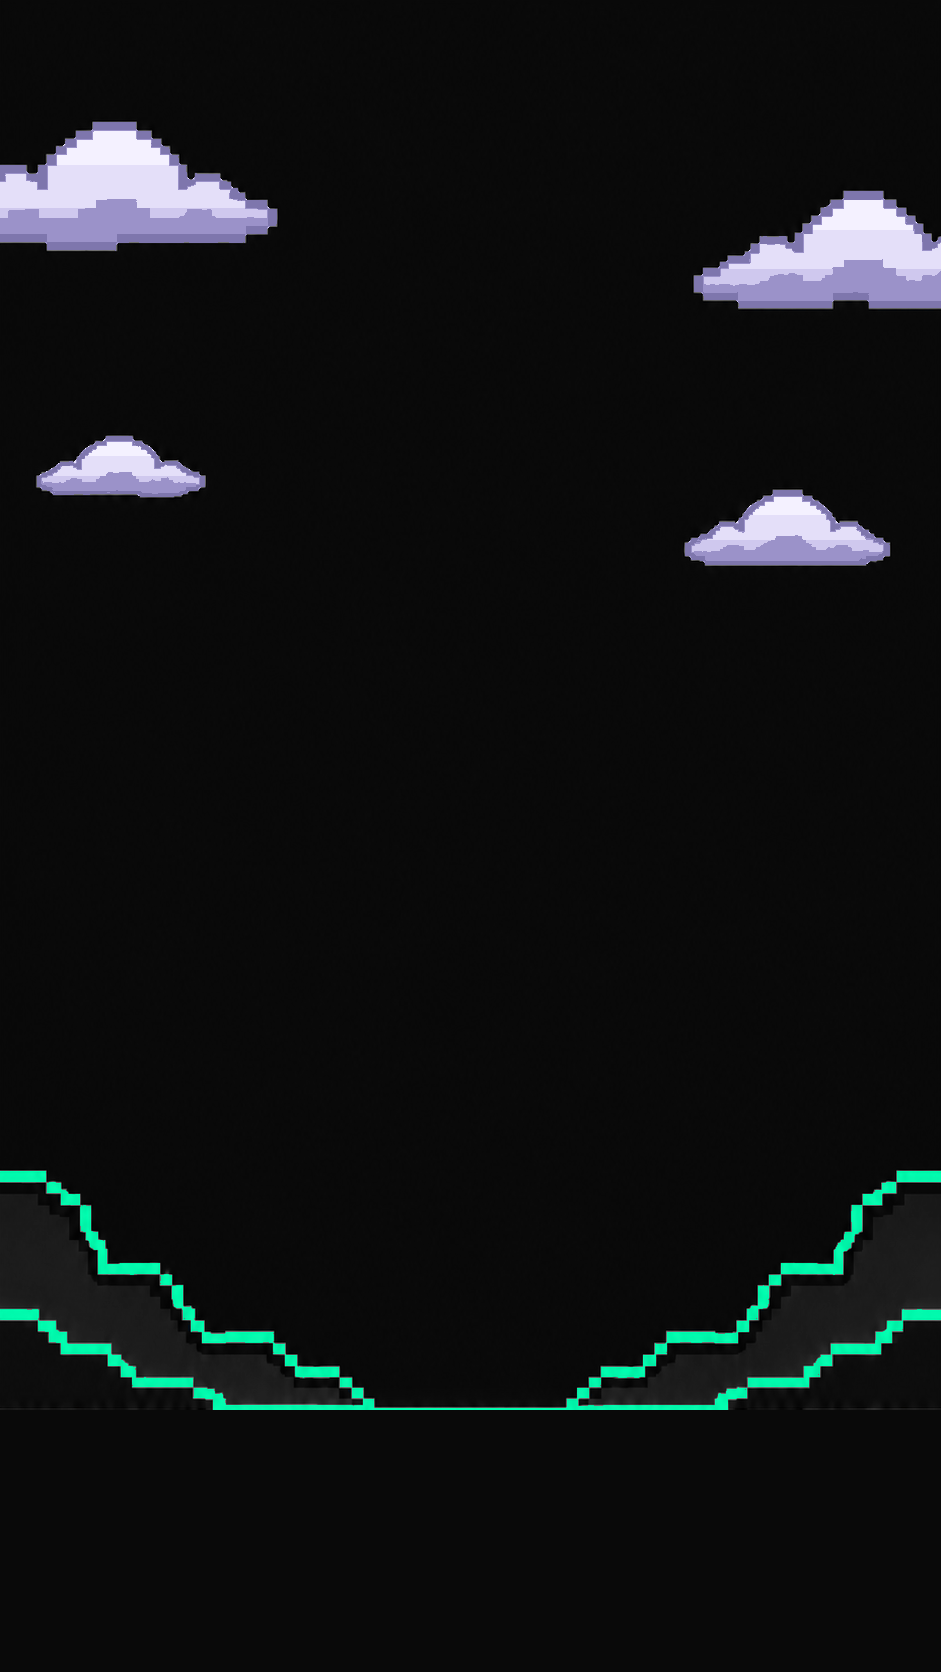
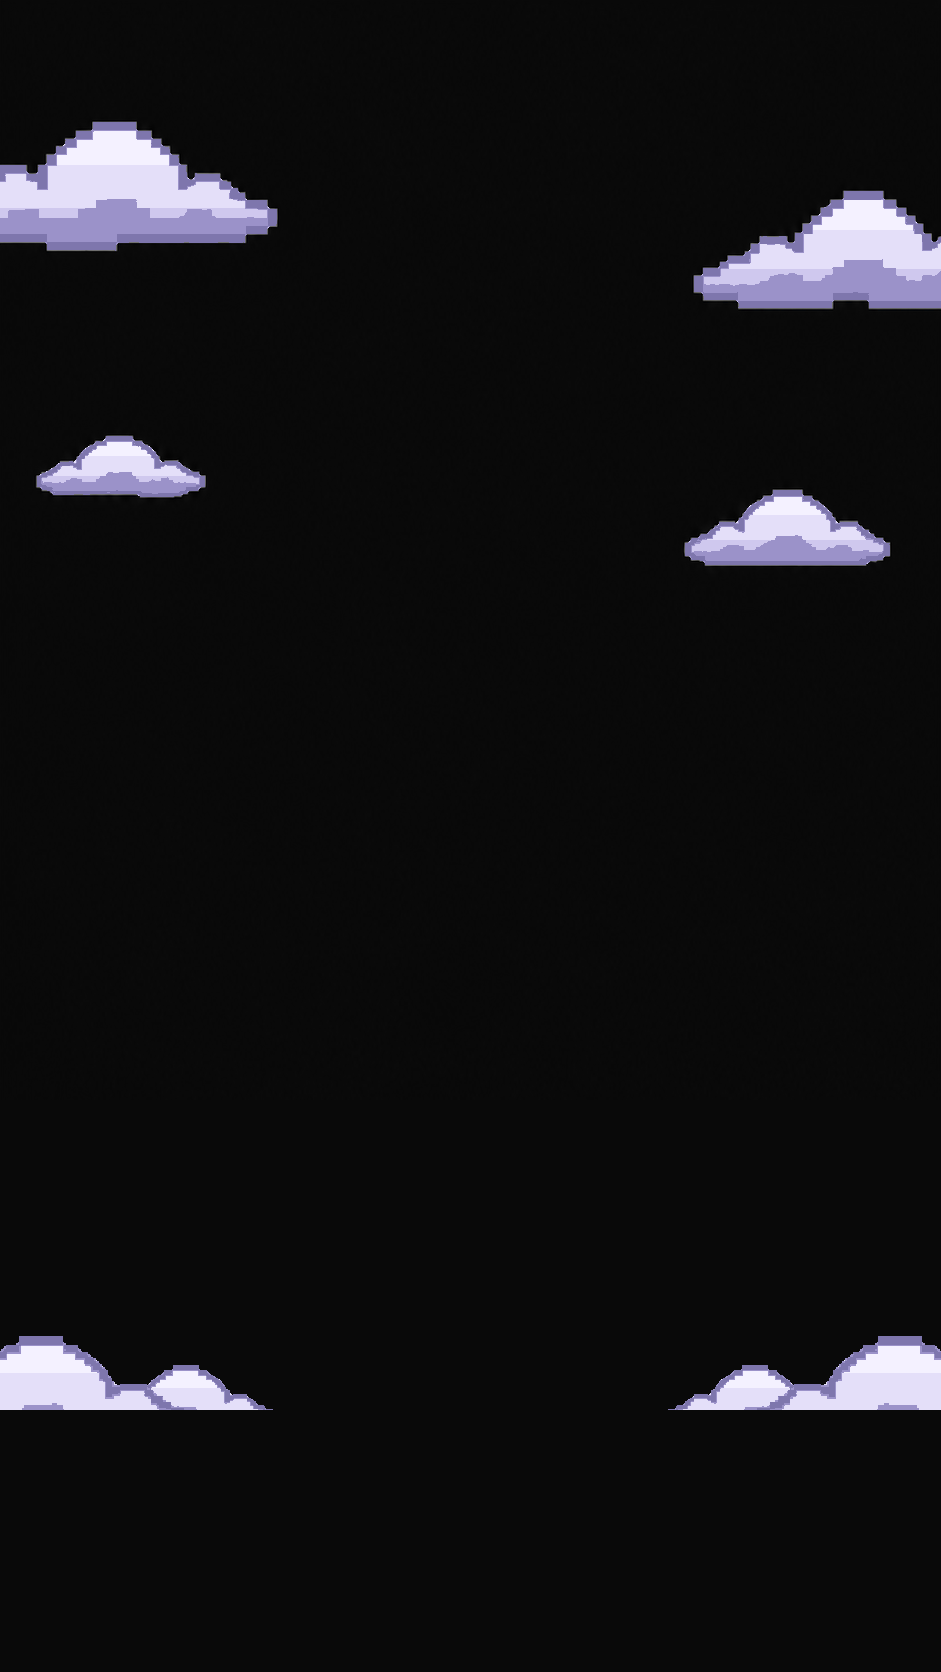
ui: hero - cloud band on the horizon instead of the hills, floor as a real CSS 3D grid plane (096)
Scene: scripts/build_hero_scene.py removes the green-outlined grey hills and lays
a band of the recoloured 095 clouds (the larger whole sprite, scaled without
smoothing, mirrored) along the horizon: bigger at the sides, smaller towards
the middle, lower parts hidden under the horizon; the middle stays clear.

Floor: one grid plane tilted back in a CSS 3D perspective whose vanishing line
sits on the horizon (pivot = perspective / tan(tilt) below it); all sizes scale
with the visible floor height. It slides one whole-pixel cell per 2.4 s cycle
(transform only), so t=0 and t=cycle are identical (pixel diff 0). Fade hides
the far rows; side fade against the far moire; 3px horizon line with a glow.
Static with prefers-reduced-motion.

diff --git a/app/hero-header.css b/app/hero-header.css
@@ -1,7 +1,7 @@
 /* GUI redesign: header + hero (reference: newheader.png / newheadermobile.png).
    Loaded after globals.css (app/layout.tsx) and reuses its component classes. Scene backgrounds:
-   public/hero/dark*.png (sky, clouds, hills; built by scripts/build_hero_scene.py) + the CSS floor
-   below the horizon (app/hero-floor.tsx, task 095). Header switches to the burger at ≤1279px
+   public/hero/dark*.png (sky, clouds, the cloud band on the horizon; scripts/build_hero_scene.py)
+   + the CSS floor below the horizon (app/hero-floor.tsx, tasks 095/096). Header switches to the burger at ≤1279px
    (same breakpoint as app/mobile-menu.tsx), the hero to the portrait scene at ≤768px. */
 :root {
   --scene-color: #0a0a0a;
@@ -280,13 +280,9 @@ body { background: var(--page); }
     var(--hero-h) - 72px - var(--horizon) * var(--scene-h));
   /* Visible grid below the horizon; the scroll cue sits on this line. */
   --grid-zone: calc(var(--hero-h) - var(--scene-y) - var(--horizon) * var(--scene-h));
-  /* Floor (task 095, app/hero-floor.tsx): the artwork's floor height (= eye height under the horizon) is the
-     unit of the CSS grid; the horizon in hero coordinates; one grid tile; one ride cycle. */
-  --fh: calc((1 - var(--horizon)) * var(--scene-h));
+  /* Floor (app/hero-floor.tsx): the horizon in hero coordinates and one ride cycle. */
   --horizon-y: calc(var(--scene-y) + var(--horizon) * var(--scene-h));
-  /* Whole pixels: line k sits at k tiles, so after one cycle it lands exactly where line k−1 started. */
-  --floor-tile: round(calc(var(--fh) * .625), 1px);
-  --floor-cycle: 2.5s;
+  --floor-cycle: 2.4s;
   min-height: calc(100vh - var(--header-height));
   min-height: var(--hero-h);
   background-color: var(--scene-color);
@@ -456,11 +452,29 @@ body { background: var(--page); }
 }
 @keyframes scroll-cue { 50% { transform: translateY(5px); } }
 
-/* ---------- Hero floor (task 095, app/hero-floor.tsx) ----------
-   Below the horizon of the scene PNG: rays to the vanishing point (static SVG) and cross lines on a plane laid
-   flat in a CSS perspective (eye on the horizon, --fh above the plane at the artwork's bottom edge). The plane
-   moves towards the viewer by exactly one tile per cycle (transform only, linear), so the loop has no seam.
-   Fog: the strip just under the horizon is masked out; the farthest line is born there. */
+/* ---------- Hero floor (tasks 095, 096; app/hero-floor.tsx) ----------
+   One plane tilted back in a real CSS 3D perspective: the grid lines lie ON it, so the perspective alone makes
+   them run together and crowd towards the horizon. The plane's pivot sits --floor-perspective / tan(tilt) under
+   the horizon, which puts the vanishing line of the tilted plane exactly on the horizon (the rows converge on it
+   and the vertical lines meet at its centre). The plane reaches --floor-far px beyond the pivot: far enough to
+   pass under the fade, so its edge is never seen.
+   Riding forward: the plane slides towards the viewer by exactly one cell per cycle (transform only, on the
+   compositor; the vertical lines slide along themselves, so only the rows move) and the loop is seamless.
+   A fade over the plane hides the far rows near the horizon completely (thin far lines alias and flicker).
+   Everything scales with the visible floor height F (= --grid-zone): perspective .95 F and tilt 50°, so the
+   pivot is .8 F under the horizon; a cell is .55 F (whole px, so one cycle = exactly one cell); rows .07 F,
+   columns .045 F on the plane. At 1920×1080 (F ≈ 157): cells ~86px wide and ~55px deep at the pivot, rows
+   ~7px there and ≥ 3px wherever the fade lets them show. */
+.hero-shell > .hero {
+  --floor-perspective: calc(var(--grid-zone) * .95);
+  --floor-tilt: 50deg;
+  --floor-pivot: calc(var(--floor-perspective) / tan(var(--floor-tilt)));
+  --floor-cell: round(calc(var(--grid-zone) * .55), 1px);
+  --floor-row: max(6px, round(calc(var(--grid-zone) * .07), 1px));
+  --floor-col: max(6px, round(calc(var(--grid-zone) * .045), 1px));
+  --floor-far: calc(var(--floor-perspective) * 6);
+  --floor-near: calc(var(--floor-perspective) * .6);
+}
 .hero-floor {
   position: absolute;
   z-index: -1;
@@ -470,59 +484,58 @@ body { background: var(--page); }
   bottom: 0;
   overflow: hidden;
   pointer-events: none;
-  -webkit-mask-image: linear-gradient(to bottom, transparent calc(var(--fh) * .11), #000 calc(var(--fh) * .26));
-  mask-image: linear-gradient(to bottom, transparent calc(var(--fh) * .11), #000 calc(var(--fh) * .26));
-}
-.hero-floor-rays {
-  position: absolute;
-  top: 0;
-  left: 50%;
-  width: calc(var(--fh) * 12);
-  height: var(--fh);
-  transform: translateX(-50%);
-  fill: var(--accent);
-}
-.hero-floor-depth {
-  position: absolute;
-  inset: 0;
-  perspective: calc(var(--fh) * 1.7);
-  perspective-origin: 50% 0;
+  background: linear-gradient(color-mix(in srgb, var(--accent) 12%, transparent), transparent 70%);
 }
 .hero-floor-plane {
   position: absolute;
-  top: var(--fh);
-  left: 50%;
-  transform-style: preserve-3d;
-  transform: rotateX(90deg);
-  animation: floor-ride var(--floor-cycle) linear infinite;
+  top: calc(var(--floor-pivot) - var(--floor-far));
+  left: -225%;
+  /* wide enough to fill the screen where the fade clears */
+  width: 550%;
+  height: calc(var(--floor-far) + var(--floor-near));
+  transform-origin: 50% var(--floor-far);
+  transform: perspective(var(--floor-perspective)) rotateX(var(--floor-tilt)) translateY(0);
+  /* One cell = a row on top + a column in the middle; the tile is centred, so a column runs to the vanishing point. */
+  background-image:
+    linear-gradient(var(--accent) 0 var(--floor-row), transparent 0),
+    linear-gradient(to right, transparent calc(50% - var(--floor-col) / 2), var(--accent) 0 calc(50% + var(--floor-col) / 2), transparent 0);
+  background-size: 100% var(--floor-cell), var(--floor-cell) 100%;
+  background-position: 0 0, 50% 0;
+  animation: floor-drive var(--floor-cycle) linear infinite;
+  will-change: transform;
 }
-/* Line i lies i tiles away; it is as wide as the viewport at that depth (perspective 1.7 floor heights). */
-.hero-floor-plane > i {
-  --half: calc(var(--fh) * 5.4 * (1 + var(--i) * .3677));
+@keyframes floor-drive {
+  from { transform: perspective(var(--floor-perspective)) rotateX(var(--floor-tilt)) translateY(0); }
+  to { transform: perspective(var(--floor-perspective)) rotateX(var(--floor-tilt)) translateY(var(--floor-cell)); }
+}
+.hero-floor-fade {
   position: absolute;
-  top: calc(var(--floor-tile) * var(--i) * -1);
-  left: calc(var(--half) * -1);
-  width: calc(var(--half) * 2);
-  height: calc(var(--fh) * .05);
-  background: var(--accent);
-  transform: translateZ(0);
+  inset: 0;
+  /* Opaque over the first quarter, still .9 at 35 %: the far rows (thinner than 3px, they alias and flicker)
+     never show. */
+  background: linear-gradient(var(--scene-color) 0 25%, rgb(10 10 10 / .9) 35%, rgb(10 10 10 / .45) 50%, transparent 68%);
 }
-@keyframes floor-ride {
-  from { transform: rotateX(90deg) translateY(0); }
-  to { transform: rotateX(90deg) translateY(var(--floor-tile)); }
+/* The far sides: rows and columns there crowd into a dotted moiré where the fade above is only partial, so the
+   corners under the horizon are darkened too (a side gradient, masked to fade out downwards). */
+.hero-floor-fade::after {
+  content: '';
+  position: absolute;
+  inset: 0;
+  background: linear-gradient(to right, var(--scene-color), transparent 38% 62%, var(--scene-color));
+  -webkit-mask-image: linear-gradient(#000 0 40%, transparent 78%);
+  mask-image: linear-gradient(#000 0 40%, transparent 78%);
 }
-/* Horizon: a crisp line in the accent with a soft glow above and below it. */
+/* Horizon: a 3px line in the accent with a soft glow. */
 .hero-horizon {
   position: absolute;
   z-index: -1;
   left: 0;
   right: 0;
-  top: calc(var(--horizon-y) - var(--fh) * .14);
-  height: calc(var(--fh) * .28);
+  top: calc(var(--horizon-y) - 1px);
+  height: 3px;
   pointer-events: none;
-  background:
-    linear-gradient(var(--accent), var(--accent)) center / 100% max(2px, calc(var(--fh) * .016)) no-repeat,
-    linear-gradient(to bottom, transparent, color-mix(in srgb, var(--accent) 20%, transparent) 50%, transparent);
+  background: var(--accent);
+  box-shadow: 0 0 18px 4px color-mix(in srgb, var(--accent) 45%, transparent);
 }
 .pets-section { border-top-color: var(--scene-border); }
 
@@ -631,7 +644,7 @@ body { background: var(--page); }
 @media (prefers-reduced-motion: reduce) {
   html { scroll-behavior: auto; }
   .hero-scroll { animation: none; }
-  .hero-floor-plane { animation: none; }
+  .hero-floor-plane { animation: none; will-change: auto; }
   .pixel-ui :is(.button, .menu-button, .social-x, .nft-lightbox-close, .pet-tab) { transition: none; }
 }
 

diff --git a/app/hero-floor.tsx b/app/hero-floor.tsx
@@ -1,47 +1,14 @@
-import type { CSSProperties } from "react";
-
 /*
-  Vaporwave floor under the hero scene (task 095): a grid in perspective that rides forward in a seamless loop.
-  The scene PNG (public/hero/*.png, scripts/build_hero_scene.py) ends at the horizon; this draws everything below.
-  All sizes are in units of the artwork's floor height (--fh in app/hero-header.css = eye height under the horizon),
-  so the grid scales with the scene exactly like the old painted one did.
-  - Rays (the lines running to the vanishing point): static SVG. A ray never moves while riding forward. Each one
-    is a thin wedge from the vanishing point, RAY wide at the bottom edge, so it narrows with distance exactly like
-    a painted strip on the floor would (a constant stroke merged the far rays into a green wash at the sides).
-  - Cross lines: LINES strips on a plane laid flat by rotateX(90deg) under a CSS perspective whose origin is the
-    centre of the horizon. One cycle moves the plane by exactly one tile (transform only), so line k ends where
-    line k−1 started: the frame at the end of a cycle equals the first one. The farthest line sits under the fog
-    (mask) near the horizon, the nearest leaves through the bottom edge.
-  Grid cell = TILE × TILE floor heights (square cells), the ray spacing at the bottom edge is TILE as well.
+  Vaporwave floor under the hero scene (tasks 095, 096): a grid plane in real CSS 3D perspective that rides
+  forward in a seamless loop. The scene PNG (public/hero/*.png, scripts/build_hero_scene.py) ends at the horizon;
+  this draws everything below it. Styles and the loop: app/hero-header.css (.hero-floor).
 */
-const TILE = 0.625; // = --floor-tile in app/hero-header.css
-const LINES = 26;
-// Rays out to ±35 floor heights at the bottom edge: they reach the sides of a 16:9 scene (±5.2 floor heights)
-// from .15 floor heights under the horizon, inside the fog; farther ones would only thicken the green wash there.
-const RAYS = 56;
-const RAY = 0.028;
-
-const rays = Array.from({ length: RAYS * 2 + 1 }, (_, i) => {
-  const x = (i - RAYS) * TILE;
-  return `0,0 ${+(x - RAY / 2).toFixed(4)},1 ${+(x + RAY / 2).toFixed(4)},1`;
-});
-
 export default function HeroFloor() {
   return (
     <>
       <div className="hero-floor" aria-hidden="true">
-        <svg className="hero-floor-rays" viewBox="-6 0 12 1" preserveAspectRatio="none">
-          {rays.map((points) => (
-            <polygon key={points} points={points} />
-          ))}
-        </svg>
-        <div className="hero-floor-depth">
-          <div className="hero-floor-plane">
-            {Array.from({ length: LINES + 1 }, (_, i) => (
-              <i key={i} style={{ "--i": i } as CSSProperties} />
-            ))}
-          </div>
-        </div>
+        <div className="hero-floor-plane" />
+        <div className="hero-floor-fade" />
       </div>
       <div className="hero-horizon" aria-hidden="true" />
     </>

diff --git a/scripts/build_hero_scene.py b/scripts/build_hero_scene.py
@@ -1,4 +1,4 @@
-"""Hero scene backgrounds (task 095): public/hero/dark.png + darkmobile.png from the untouched sources in
+"""Hero scene backgrounds (tasks 095, 096): public/hero/dark.png + darkmobile.png from the untouched sources in
 assets-raw/hero/ (the 089/093 versions of the artwork). Repeatable: always reads the sources, never its own output.
   python3 scripts/build_hero_scene.py
 
@@ -7,9 +7,12 @@ assets-raw/hero/ (the 089/093 versions of the artwork). Repeatable: always reads
    (the cloud's own shading, lower edge) becomes the soft lavender shadow. No green is left in the sky.
    A cloud's inside = sky pixels that a flood fill from open sky cannot reach through the outline (the clouds cut
    by the frame are closed by the image edge).
-2. Floor: everything from the horizon line down is cleared to the sky colour; the grid is drawn and animated in
-   CSS on top (app/hero-floor.tsx, app/hero-header.css), so the PNG keeps only the sky, clouds and hills.
-3. Hills (and everything between the clouds and the horizon) are copied unchanged.
+2. Horizon (096): the green-outlined grey hills are removed. In their place a band of clouds made of the same
+   recoloured sprites (the clouds of step 1 that are not cut by the frame), scaled up without smoothing: big ones
+   at the sides in front, smaller ones nearer the middle behind them, their lower parts hidden under the horizon.
+   The middle of the frame (title, egg, buttons, counter) stays clear: BAND lists x as a fraction of the width.
+3. Floor: everything from the horizon line down is cleared to the sky colour; the grid is drawn and animated in
+   CSS on top (app/hero-floor.tsx, app/hero-header.css), so the PNG keeps only the sky and the clouds.
 """
 from collections import deque
 from pathlib import Path
@@ -23,6 +26,15 @@ OUT = ROOT / "public" / "hero"
 
 # name: (horizon row = first row of the horizon line, last row that may hold clouds)
 SCENES = {"dark.png": (781, 520), "darkmobile.png": (1410, 1100)}
+
+# Horizon band, drawn back to front and mirrored onto the right side: (sprite: 0 = smaller, 1 = larger,
+# scale, left edge as a fraction of the width, part of the cloud's height hidden under the horizon, mirrored).
+# The larger sprite only: the small one's thin tail breaks into loose pixels when scaled up.
+BAND = {
+    "dark.png": [(1, 0.8, 0.235, 0.34, True), (1, 1.05, 0.12, 0.36, False), (1, 1.3, 0.02, 0.34, True),
+                 (1, 1.6, -0.09, 0.36, False)],
+    "darkmobile.png": [(1, 0.9, 0.1, 0.34, True), (1, 1.5, -0.12, 0.34, False)],
+}
 
 OUTLINE = (0x7e, 0x76, 0xad)  # darker lavender-grey
 FILL = [(0xf4, 0xf1, 0xff), (0xe4, 0xdf, 0xf9), (0xcf, 0xc8, 0xee)]  # top -> bottom bands
@@ -84,18 +96,19 @@ def build(name, horizon, sky_bottom):
                 n = len(boxes) + 1
                 label[y0, x0] = n
                 q = deque([(y0, x0)])
-                ys, size = [y0, y0], 0
+                ys, xs, size = [y0, y0], [x0, x0], 0
                 while q:
                     y, x = q.popleft()
                     size += 1
                     ys[0], ys[1] = min(ys[0], y), max(ys[1], y)
+                    xs[0], xs[1] = min(xs[0], x), max(xs[1], x)
                     for dy in (-1, 0, 1):
                         for dx in (-1, 0, 1):
                             ny, nx = y + dy, x + dx
                             if 0 <= ny < top and 0 <= nx < W and cloud[ny, nx] and not label[ny, nx]:
                                 label[ny, nx] = n
                                 q.append((ny, nx))
-                boxes.append((ys[0], ys[1], size))
+                boxes.append((ys[0], ys[1], xs[0], xs[1], size))
     out = a.copy()
     grey = lum[:top] > (int(sky.max()) + 22)  # the shading band inside a cloud (sky ≈ 10, band ≈ 50–60)
     # Single noisy pixels in the band (lighter dots inside the shading) follow their 3x3 neighbourhood.
@@ -106,12 +119,15 @@ def build(name, horizon, sky_bottom):
                 max(0, -dy) : top + min(0, -dy), max(0, -dx) : W + min(0, -dx)]
     grey = (grey & (near >= 3)) | (near >= 6)
     clouds = 0
-    for n, (y0, y1, size) in enumerate(boxes, 1):
+    whole = []  # (label, box) of the clouds the frame does not cut: the sprites for the horizon band
+    for n, (y0, y1, x0, x1, size) in enumerate(boxes, 1):
         if size < 200:  # specks: the sky stays sky
             out[:top][label == n] = sky
             continue
         clouds += 1
         m = label == n
+        if x0 > 0 and x1 < W - 1:
+            whole.append((n, (y0, y1, x0, x1)))
         out[:top][m & outline] = OUTLINE
         body = m & inside
         out[:top][body & grey] = SHADOW
@@ -124,14 +140,33 @@ def build(name, horizon, sky_bottom):
     skyband = out[:top]
     tint = (skyband[..., 1] - skyband[..., 0]) > 4
     skyband[tint] = skyband[tint].mean(1, keepdims=True).round()
+    # Sprites: RGBA crops of the whole clouds, sorted by width (0 = smaller, 1 = larger).
+    sprites = []
+    for n, (y0, y1, x0, x1) in sorted(whole, key=lambda c: c[1][3] - c[1][2]):
+        rgba = np.zeros((y1 - y0 + 1, x1 - x0 + 1, 4), np.uint8)
+        rgba[..., :3] = out[y0 : y1 + 1, x0 : x1 + 1]
+        rgba[..., 3] = np.where(label[y0 : y1 + 1, x0 : x1 + 1] == n, 255, 0)
+        sprites.append(Image.fromarray(rgba))
+    # Hills and the painted floor: gone (plain sky from below the clouds down).
+    out[top:] = sky
+    scene = Image.fromarray(out.astype(np.uint8))
+    for index, scale, left, hidden, flip in BAND[name]:
+        sprite = sprites[min(index, len(sprites) - 1)]
+        sprite = sprite.resize((round(sprite.width * scale), round(sprite.height * scale)), Image.NEAREST)
+        if flip:
+            sprite = sprite.transpose(Image.FLIP_LEFT_RIGHT)
+        y = horizon + round(sprite.height * hidden) - sprite.height
+        x = round(left * W)
+        scene.paste(sprite, (x, y), sprite)
+        mirrored = sprite.transpose(Image.FLIP_LEFT_RIGHT)
+        scene.paste(mirrored, (W - x - sprite.width, y), mirrored)
+    out = np.asarray(scene).astype(int).copy()
     # Floor: from the horizon line down = plain sky colour; CSS draws the grid.
     out[horizon:] = sky
-    # The row above holds the anti-aliased top of the old horizon line: repeat the hills' last clean row there.
-    out[horizon - 1] = out[horizon - 2]
-    still_green = int(((out[:top, :, 1] - out[:top, :, 0]) > 4).sum())
+    still_green = int(((out[..., 1] - out[..., 0]) > 4).sum())
     Image.fromarray(out.astype(np.uint8)).save(OUT / name, optimize=True)
-    print(f"{name}: {W}x{H}, {clouds} clouds, sky {hexc(tuple(sky))}, floor cleared from row {horizon} "
-          f"({horizon / H:.4f}), green px left in the sky: {still_green}")
+    print(f"{name}: {W}x{H}, {clouds} clouds ({len(sprites)} whole -> {len(BAND[name]) * 2} on the horizon), sky {hexc(tuple(sky))}, floor cleared from row {horizon} "
+          f"({horizon / H:.4f}), green px left: {still_green}")
 
 
 if __name__ == "__main__":
